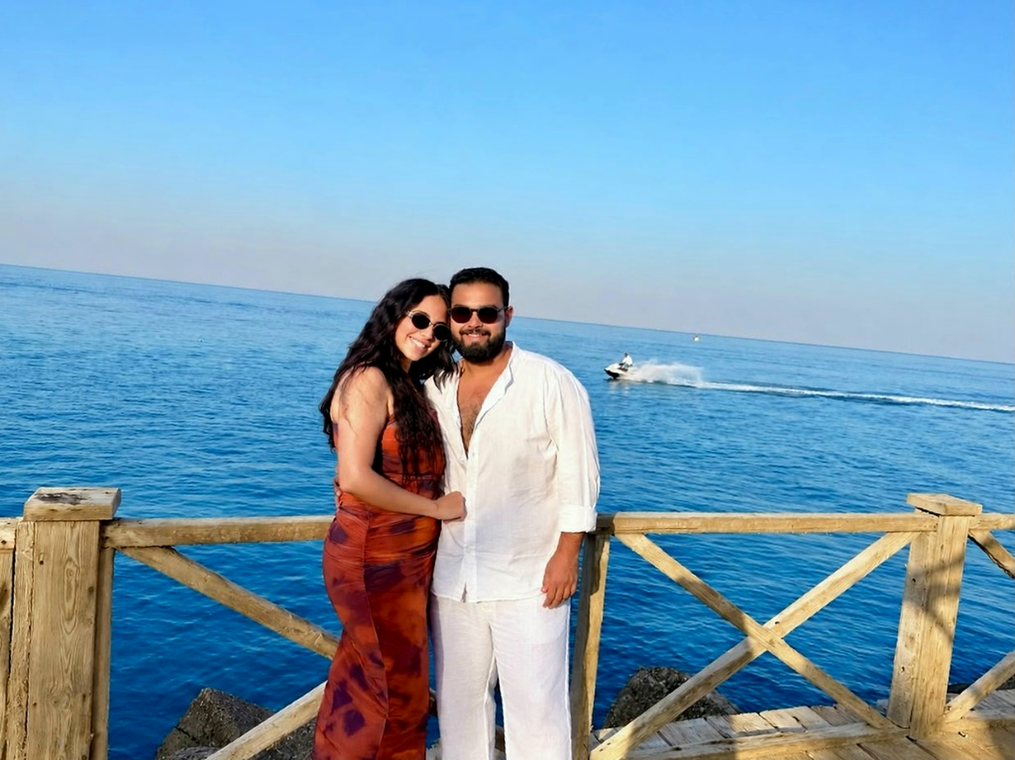
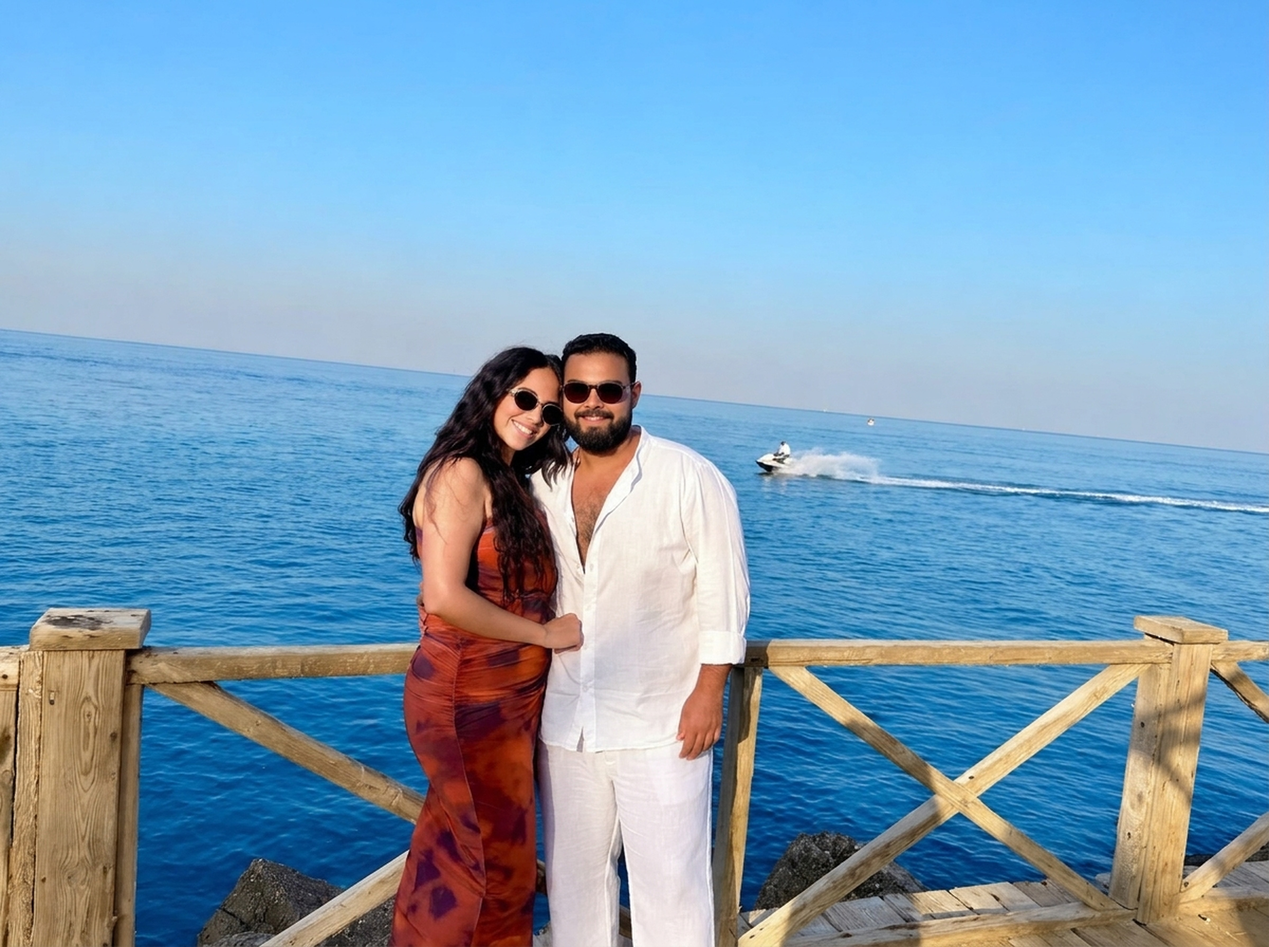
fix(photo): enhance background photo to 4K clarity and position couple higher and at right edge on mobile

diff --git a/src/styles/globals.css b/src/styles/globals.css
@@ -4456,3 +4456,25 @@ img {
   }
 }
 
+
+/* ---------------------------------------------------------
+   MOBILE PHOTO STORY BACKGROUND POSITIONING (Width <= 767px)
+   Shifts landscape background photo up so the couple sits
+   higher above the foreground frame, and fades bottom edge.
+   --------------------------------------------------------- */
+@media (max-width: 767px) {
+  .ps-photo--primary img {
+    height: 89%;
+    margin-top: -5%;
+  }
+
+  .ps-photo--primary::after {
+    background: linear-gradient(
+      180deg,
+      rgba(2, 4, 9, 0.14) 0%,
+      transparent 36%,
+      rgba(2, 4, 9, 0.78) 76%,
+      #020409 83%
+    );
+  }
+}

diff --git a/src/config/eventConfig.js b/src/config/eventConfig.js
@@ -50,7 +50,7 @@ export const eventConfig = {
       src: photo01,
       alt: 'Bishoy and Doris',
       orientation: 'landscape',
-      objectPositionMobile: '35% 42%',
+      objectPositionMobile: '24% 42%',
       objectPositionDesktop: '45% 48%',
     },
     {
